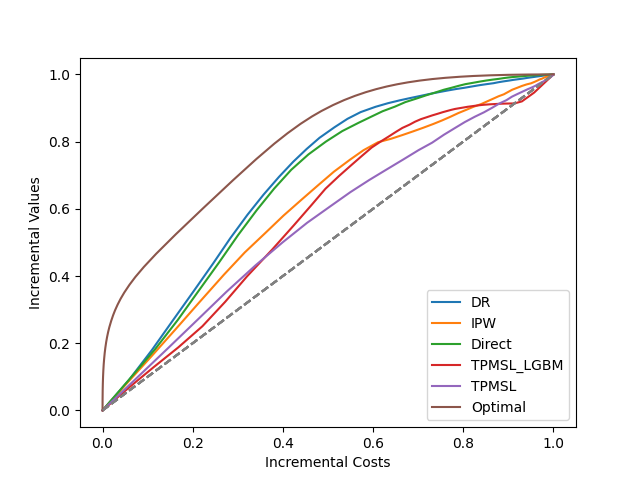
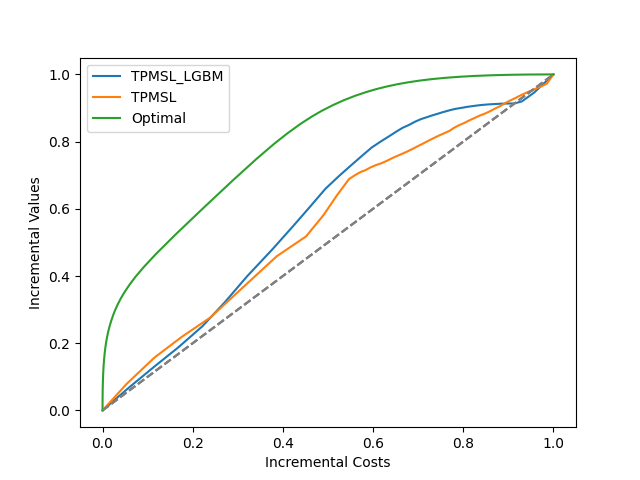
fix slearner

diff --git a/main.py b/main.py
@@ -66,7 +66,7 @@ def main(predict_ps: bool) -> None:
     model = get_model(model_name=model_name, model_params=model_params)
     method_list: list = ["DR", "IPW", "Direct"]
     # method_list = method_list[:2]
-    # method_list = []
+    method_list = []
     roi_dic = {}
     for method in method_list:
         train_dl = make_loader(
@@ -106,9 +106,10 @@ def main(predict_ps: bool) -> None:
     model_name = "SLearner"
     model_params = {"input_dim": n_features + 1}
     model = get_model(model_name=model_name, model_params=model_params)
-    method_list: list = ["revenue", "cost"]
+    method_list: list = ["cost", "revenue"]
     prediction_sl: dict[str, NDArray[np.float64]] = {}
-    num_epochs = 20
+    # num_epochs = 50
+    # lr = 0.00005
     for method in method_list:
         train_dl = make_loader(
             train_dataset,
@@ -139,7 +140,8 @@ def main(predict_ps: bool) -> None:
         trainer.save_model(model, "model.pth")
         predictions = trainer.predict(dl=test_dl, model=model).squeeze()
         prediction_sl[method] = predictions
-    roi_dic["TPMSL"] = prediction_sl["revenue"] / (prediction_sl["cost"] + 1e6)
+    import pdb; pdb.set_trace()
+    roi_dic["TPMSL"] = prediction_sl["revenue"] / (prediction_sl["cost"] + 1e-6)
     scaler = MinMaxScaler()
     roi_dic["TPMSL"] = scaler.fit_transform(roi_dic["TPMSL"].reshape(-1, 1)).flatten()
     roi_dic["Optimal"] = test_dataset["true_tau_r"] / test_dataset["true_tau_c"]
@@ -152,4 +154,4 @@ def main(predict_ps: bool) -> None:
 
 
 if __name__ == "__main__":
-    main(predict_ps=False)
+    main(predict_ps=True)

diff --git a/src/make_data.py b/src/make_data.py
@@ -32,7 +32,8 @@ class DatasetGenerator:
             propensity_score = dataset["T_prob_pred"]
         else:
             propensity_score = dataset["T_prob"]
-        # rmse = self.calculate_rmse(dataset["T_prob"], propensity_score)
+        rmse = self.calculate_rmse(dataset["T_prob"], propensity_score)
+        print("RMSE: ", rmse)
         # import pdb; pdb.set_trace()
         dataset |= self.generate_visit(dataset["features"], dataset["T"])
         dataset |= self.generate_conversion(

diff --git a/src/model/slearner.py b/src/model/slearner.py
@@ -71,4 +71,5 @@ class SLearnerNonLinear(nn.Module):
             mu_1 = self.mlp(X_1)
             mu_0 = self.mlp(X_0)
             tau = mu_1 - mu_0
+            # import pdb; pdb.set_trace()
             return {"pred": tau}
